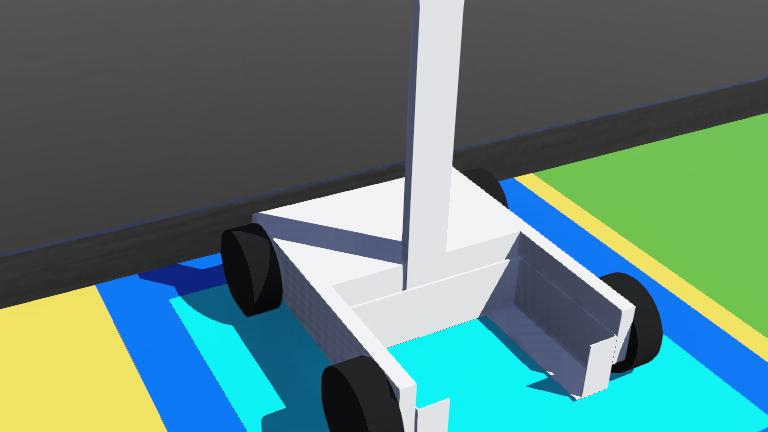
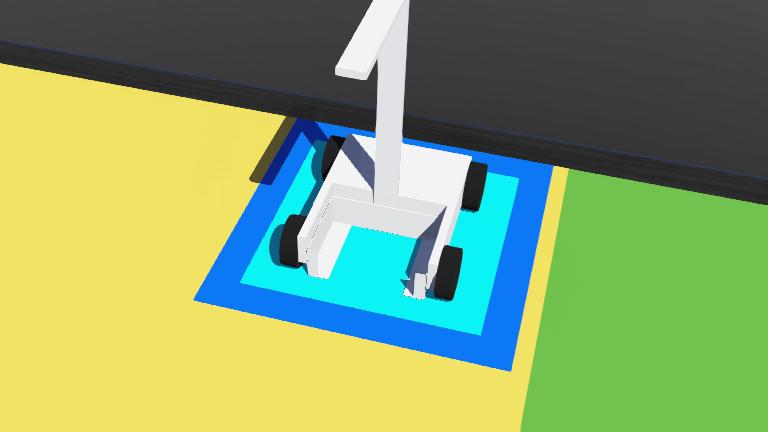
New changes

diff --git a/RoboGames2023UniversityCategory/controllers/IESL_new/IESL_new.py b/RoboGames2023UniversityCategory/controllers/IESL_new/IESL_new.py
@@ -10,11 +10,11 @@ if __name__ == "__main__":
     # create the Robot instance.
     robot = Robot()
     kb = Keyboard()
-    
+
     # get the time step of the current world.
     timestep = 64
-    MAX_SPEED = -6.28
-    
+    MAX_SPEED = -10.0
+
     # You should insert a getDevice-like function in order to get the
     # instance of a device of the robot. Something like:
     #  motor = robot.getDevice('motorname')
@@ -28,7 +28,7 @@ if __name__ == "__main__":
     a_h = robot.getDevice('virtical_arm')
     a_h.setPosition(0.0)
     l_p = 0.0
-    
+
     h_r = robot.getDevice('horizontal_right')
     h_r.setPosition(0.0)
     h_r_p = 0.0
@@ -38,13 +38,13 @@ if __name__ == "__main__":
 
     f_l.setPosition(float('inf'))
     f_l.setVelocity(0.0)
-    
+
     f_r.setPosition(float('inf'))
     f_r.setVelocity(0.0)
-    
+
     b_l.setPosition(float('inf'))
     b_l.setVelocity(0.0)
-    
+
     b_r.setPosition(float('inf'))
     b_r.setVelocity(0.0)
     # Main loop:
@@ -53,18 +53,16 @@ if __name__ == "__main__":
         # Read the sensors:
         # Enter here functions to read sensor data, like:
         #  val = ds.getValue()
-    
+
         # Process sensor data here.
-    
+
         # Enter here functions to send actuator commands, like:
         #  motor.setPosition(10.0)
-        
-        
-        
+
         l_s = 0.0
         r_s = 0.0
         key = kb.getKey()
-        if(key == 315):
+        if (key == 315):
             r_s = MAX_SPEED
             l_s = MAX_SPEED
         elif key == 317:
@@ -79,35 +77,42 @@ if __name__ == "__main__":
         else:
             r_s = 0.0
             l_s = 0.0
-        
 
-        if(key == 87):
-            l_p += 0.005
+        if (key == 87):
+            l_p += 0.01
+            if l_p >= 0.55:
+                l_p = 0.55
         elif key == 83:
-            l_p -= 0.005
+            l_p -= 0.01
+            if l_p <= -0.05:
+                l_p = -0.05
         elif key == 65:
             h_r_p -= 0.005
             h_l_p += 0.005
-            
+            if h_r_p <= -0.115 or h_l_p >= 0.115:
+                h_r_p = -0.115
+                h_l_p = 0.115
+
         elif key == 68:
             h_r_p += 0.005
             h_l_p -= 0.005
-        
+            if h_r_p >= 0.0 or h_l_p <= 0.0:
+                h_r_p = 0.0
+                h_l_p = 0.0
         else:
-            l_p+=0
-            h_r_p +=0
+            l_p += 0
+            h_r_p += 0
             h_l_p += 0
-        
+
         a_h.setPosition(l_p)
         h_r.setPosition(h_r_p)
         h_l.setPosition(h_l_p)
-        
+
         f_l.setVelocity(l_s)
         f_r.setVelocity(r_s)
         b_l.setVelocity(l_s)
         b_r.setVelocity(r_s)
-        
+
         pass
-    
+
     # Enter here exit cleanup code.
-    
